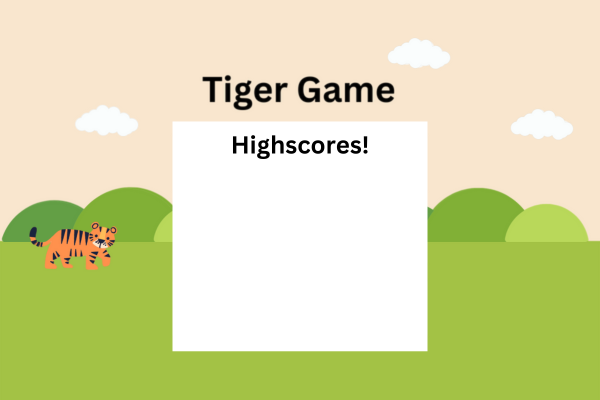
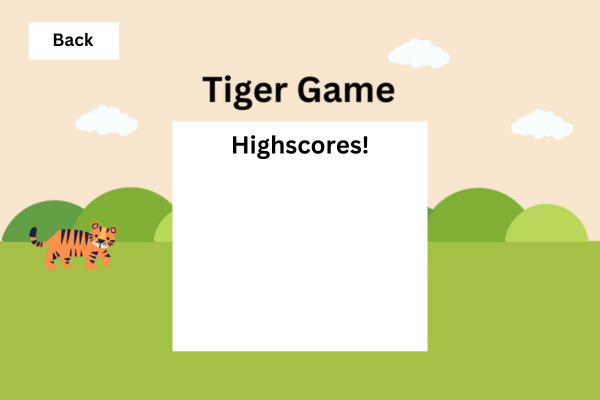
Updated Image, and past code. Current work: New Menu and savescore files

Changed region(s): [[0.03, 0.03, 0.21, 0.15]]

diff --git a/src/main/java/TigerGame/StartMenuPane.java b/src/main/java/TigerGame/StartMenuPane.java
@@ -9,12 +9,16 @@ public class StartMenuPane extends GraphicsPane {
 	public static final String MUSIC_FOLDER = "sounds";
     GImage background = new GImage("images/start_menu.png");
     GImage manualPage = new GImage("images/player_manual.png");
+    //(2025)
+    GImage highscoreTable = new GImage ("images/high_score_table.png");
     // Button 1: Single-player
-    public GRect but1 = new GRect(172,136,255,54);
+    public GRect but1 = new GRect(172,63,255,54);
     // Button 2: Multi-player
-    public GRect but2 = new GRect(172,209,255,54);
+    public GRect but2 = new GRect(172,136,255,54);
     // Button 3: Player manual
-    public GRect but3 = new GRect(172,281,255,54);
+    public GRect but3 = new GRect(172,209,255,54);
+    //Button 4: High-Score Table (2025)
+    public GRect but4 = new GRect(172,281,255,54);
 
     public StartMenuPane(MainApplication app) {
         super();
@@ -22,6 +26,8 @@ public class StartMenuPane extends GraphicsPane {
         but1.setLineWidth(0);
         but2.setLineWidth(0);
         but3.setLineWidth(0);
+        //(2025)
+        but4.setLineWidth(0);
         
     }
 
@@ -40,6 +46,10 @@ public class StartMenuPane extends GraphicsPane {
     		audio.pauseSound(MUSIC_FOLDER, "MMenu.mp3");
         	program.switchToMultiPlayer();
         }
+      //(2025)
+        else if(objIn == but4){
+        	program.switchToScoreTable();
+        }
     }
 
     @Override
@@ -48,6 +58,8 @@ public class StartMenuPane extends GraphicsPane {
         program.add(but1);
         program.add(but2);
         program.add(but3);
+        //(2025)
+        program.add(but4);
     }
 
     @Override
@@ -56,6 +68,8 @@ public class StartMenuPane extends GraphicsPane {
         program.remove(but1);
         program.remove(but2);
         program.remove(but3);
+        //(2025)
+        program.remove(but4);
     }
 
 }

diff --git a/src/main/java/TigerGame/MainApplication.java b/src/main/java/TigerGame/MainApplication.java
@@ -20,6 +20,7 @@ public class MainApplication extends GraphicsApplication implements ActionListen
 	public SinglePlayerModePane singleMenu;
 	public MultiPlayerMode multiMenu;
 	public DeathScreenPane gameOverMenu;
+	public HighscoreTable scoreTable;
 	private AudioPlayer audio = AudioPlayer.getInstance();
 	public boolean isTwoPlayers;
 
@@ -32,6 +33,8 @@ public class MainApplication extends GraphicsApplication implements ActionListen
 		mainMenu = new StartMenuPane(this);		
 		// Loads player manual pane
 		manualMenu = new PlayerManualPane(this);
+		//Loads player Highscore Table (2025)
+		scoreTable = new HighscoreTable(this);
 		// Loads game over menu
 		gameOverMenu = new DeathScreenPane(this, isTwoPlayers);
 		setupInteractions();		
@@ -46,6 +49,12 @@ public class MainApplication extends GraphicsApplication implements ActionListen
 
 	public void switchToManual() {
 		switchToScreen(manualMenu);
+		audio.playSound(MUSIC_FOLDER, "MMenu.mp3");
+
+	}
+	
+	public void switchToScoreTable() {
+		switchToScreen(scoreTable);
 		audio.playSound(MUSIC_FOLDER, "MMenu.mp3");
 
 	}
